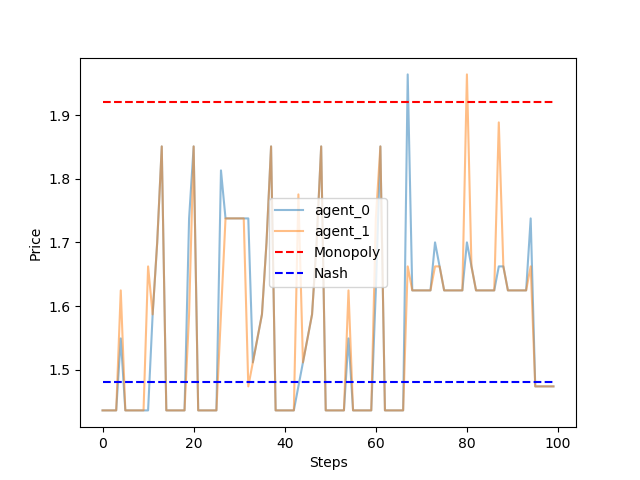
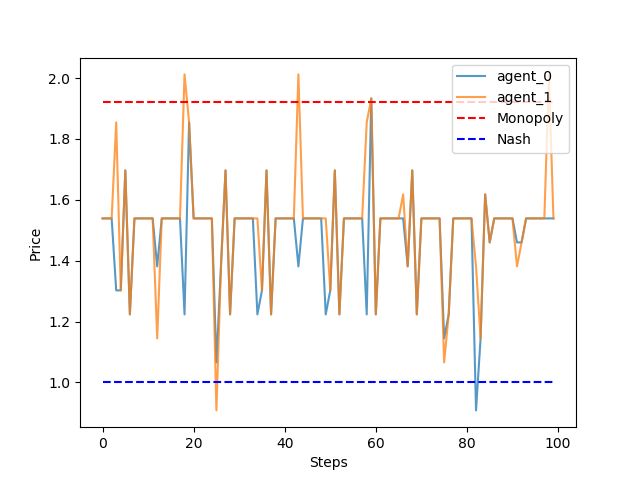
auto

diff --git a/gym_bertrandcompetition/envs/bertrand_competition_continuous.py b/gym_bertrandcompetition/envs/bertrand_competition_continuous.py
@@ -10,12 +10,12 @@ import matplotlib.pyplot as plt
 
 # cd OneDrive/Documents/Research/gym-bertrandcompetition/gym_bertrandcompetition/envs
 
-class BertrandCompetitionDiscreteEnv(MultiAgentEnv):
+class BertrandCompetitionContinuousEnv(MultiAgentEnv):
     metadata = {'render.modes': ['human']}
 
-    def __init__(self, num_agents = 2, c_i = 1, a_minus_c_i = 1, a_0 = 0, mu = 0.25, delta = 0.95, m = 15, xi = 0.1, k = 1, max_steps=200, epochs=10, convergence=5, trainer_choice='DQN'):
+    def __init__(self, num_agents = 2, c_i = 1, a_minus_c_i = 1, a_0 = 0, mu = 0.25, delta = 0.95, xi = 0.1, k = 1, max_steps=200, epochs=10, trainer_choice='DQN'):
 
-        super(BertrandCompetitionDiscreteEnv, self).__init__()
+        super(BertrandCompetitionContinuousEnv, self).__init__()
         self.num_agents = num_agents
 
         # Length of Memory
@@ -23,9 +23,6 @@ class BertrandCompetitionDiscreteEnv(MultiAgentEnv):
 
         # Marginal Cost
         self.c_i = c_i
-
-        # Number of Discrete Prices
-        self.m = m
 
         # Product Quality Indexes
         self.a = np.array([c_i + a_minus_c_i] * num_agents)
@@ -63,25 +60,24 @@ class BertrandCompetitionDiscreteEnv(MultiAgentEnv):
         print('Monopoly Price:', self.pM)
 
         # MultiAgentEnv Action Space
-        self.action_space = Discrete(m)
+        self.low_price = self.pN - xi * (self.pM - self.pN)
+        self.high_price = self.pM + xi * (self.pM - self.pN)
+        self.action_space = Box(np.array([self.low_price]), np.array([self.high_price]))
         
         # MultiAgentEnv Observation Space
         if k > 0:
-            self.numeric_low = np.array([0] * (k * num_agents))
-            numeric_high = np.array([m] * (k * num_agents))
-            self.observation_space = Box(self.numeric_low, numeric_high, dtype=int)
+            self.numeric_low = np.array([self.low_price] * (k * num_agents))
+            numeric_high = np.array([self.high_price] * (k * num_agents))
+            self.observation_space = Box(self.numeric_low, numeric_high)
         else:
-            self.numeric_low = np.array([0] * num_agents)
-            numeric_high = np.array([m] * num_agents)
-            self.observation_space = Box(self.numeric_low, numeric_high, dtype=int)
+            self.numeric_low = np.array([self.low_price] * num_agents)
+            numeric_high = np.array([self.high_price] * num_agents)
+            self.observation_space = Box(self.numeric_low, numeric_high)
 
-        self.action_price_space = np.linspace(self.pN - xi * (self.pM - self.pN), self.pM + xi * (self.pM - self.pN), m)
-        print(self.action_price_space)
         self.reward_range = (-float('inf'), float('inf'))
         self.current_step = None
         self.max_steps = max_steps
         self.epochs = epochs
-        self.convergence = convergence
         self.trainer_choice = trainer_choice
         self.players = [ 'agent_' + str(i) for i in range(num_agents)]
         self.action_history = {}
@@ -89,7 +85,7 @@ class BertrandCompetitionDiscreteEnv(MultiAgentEnv):
         for i in range(num_agents):
             if self.players[i] not in self.action_history:
                 self.action_history[self.players[i]] = []
-                for _ in range(convergence):
+                for _ in range(k):
                     self.action_history[self.players[i]].append(self.action_space.sample())
 
         self.reset()
@@ -102,10 +98,10 @@ class BertrandCompetitionDiscreteEnv(MultiAgentEnv):
     def step(self, actions_dict):
         ''' MultiAgentEnv Step'''
 
-        actions_idx = np.array(list(actions_dict.values())).flatten()
+        actions_list = np.array(list(actions_dict.values())).flatten()
 
-        for i in range(actions_idx.size):
-            self.action_history[self.players[i]].append(actions_idx[i])
+        for i in range(actions_list.size):
+            self.action_history[self.players[i]].append(actions_list[i])
 
         reward = np.array([0.0] * self.num_agents)
 
@@ -115,14 +111,13 @@ class BertrandCompetitionDiscreteEnv(MultiAgentEnv):
         else:
             observation = dict(zip(self.players, [self.numeric_low for _ in range(self.num_agents)]))
 
-        self.prices = self.action_price_space.take(actions_idx)
+        self.prices = actions_list
 
         for i in range(self.num_agents):
             reward[i] = (self.prices[i] - self.c_i) * self.demand(self.a, self.prices, self.mu, i)
 
         reward = dict(zip(self.players, reward))
-        done = {'__all__': np.all(np.array(self.action_history[self.players[0]][-self.convergence:]) == self.action_history[self.players[0]][-1])
-                                   or self.current_step == self.max_steps}
+        done = {'__all__': self.current_step == self.max_steps}
         info = dict(zip(self.players, [{}]*self.num_agents))
 
         self.current_step += 1
@@ -134,10 +129,10 @@ class BertrandCompetitionDiscreteEnv(MultiAgentEnv):
 
         if direction == 'down':
             # First player deviates to lowest price
-            deviate_actions_dict[self.players[0]] = 0
+            deviate_actions_dict[self.players[0]] = self.low_price
         elif direction == 'up':
             # First player deviates to highest price
-            deviate_actions_dict[self.players[0]] = self.m - 1
+            deviate_actions_dict[self.players[0]] = self.high_price
 
         for agent in range(1, self.num_agents):
             # All other player remain at previous price (large assumption)
@@ -151,7 +146,7 @@ class BertrandCompetitionDiscreteEnv(MultiAgentEnv):
         self.current_step = 0
 
         # Reset to random action
-        random_action = np.random.randint(self.m, size=self.num_agents)
+        random_action = np.random.uniform(self.low_price, self.high_price, size=self.num_agents)
 
         for i in range(random_action.size):
             self.action_history[self.players[i]].append(random_action[i])
@@ -181,26 +176,3 @@ class BertrandCompetitionDiscreteEnv(MultiAgentEnv):
 
     def render(self, mode='human'):
         raise NotImplementedError
-
-
-
-# Tests
-
-# bcd = BertrandCompetitionDiscreteEnv()
-# obs = bcd.reset()
-# print(obs)
-# print([0] * 0)
-
-# for i in range(14):
-#     print()
-#     obs, rewards, dones, infos = bcd.step(actions_dict={'agent_0': i, 'agent_1': i})
-#     print('Obs:', obs)
-#     print('Reward:', rewards)
-#     print('Done:', dones)
-#     print('Info:', infos)
-#     print()
-#     obs, rewards, dones, infos = bcd.step(actions_dict={'agent_0': i, 'agent_1': i+1})
-#     print('Obs:', obs)
-#     print('Reward:', rewards)
-#     print('Done:', dones)
-#     print('Info:', infos)

diff --git a/agents/q_learner.py b/agents/q_learner.py
@@ -83,7 +83,26 @@ class Q_Learner():
             for agent in range(self.num_agents):
                 all_rewards[agent].append(mean_reward)
 
-    def plot(self, last_n = 1000):
+    def eval(self, observation, n=20):
+        '''Eval q_table'''
+
+        for i in range(n):
+
+            observation = str(observation)
+
+            actions_dict = {}
+            for agent in range(self.num_agents):
+                if observation not in self.q_table[agent]:
+                    self.q_table[agent][observation] = [0] * self.m
+
+                actions_dict[self.players[agent]] = np.argmax(self.q_table[agent][observation])
+
+            next_observation, reward, done, info = self.env.step(actions_dict)
+            done = done['__all__']
+
+            observation = str(next_observation)
+
+    def plot(self, last_n = 1000, title_str=''):
         x = np.arange(last_n)
         for player in self.players:
             plt.plot(x, self.env.action_price_space.take(self.env.action_history[player][-last_n:]), alpha=0.75, label=player)
@@ -92,5 +111,5 @@ class Q_Learner():
         plt.xlabel('Steps')
         plt.ylabel('Price')
         plt.legend()
-        plt.savefig('./figures/' + self.env.trainer_choice + '_with_' + str(self.env.num_agents) + '_agents_k_' + str(self.env.k) + '_for_' + str(self.env.epochs * self.env.max_steps) + '_steps_last_steps_' + str(last_n))
+        plt.savefig('./figures/' + title_str + self.env.trainer_choice + '_with_' + str(self.env.num_agents) + '_agents_k_' + str(self.env.k) + '_for_' + str(self.env.epochs * self.env.max_steps) + '_steps_last_steps_' + str(last_n))
         plt.clf()

diff --git a/gym_bertrand_test.py b/gym_bertrand_test.py
@@ -1,6 +1,7 @@
 import gym
 import gym_bertrandcompetition
 from gym_bertrandcompetition.envs.bertrand_competition_discrete import BertrandCompetitionDiscreteEnv
+from gym_bertrandcompetition.envs.bertrand_competition_continuous import BertrandCompetitionContinuousEnv
 from agents.q_learner import Q_Learner
 
 import ray
@@ -22,13 +23,14 @@ from ray.tune.logger import pretty_print
 num_agents = 2
 k = 1
 m = 15
-max_steps = 500
+max_steps = 1000
 convergence = 5
 epochs = 50
 # choose from QL, DQN, PPO, A3C
-trainer_choice = 'QL'
+trainer_choice = 'A3C'
 
-env = BertrandCompetitionDiscreteEnv(num_agents=num_agents, k=k, m=m, max_steps=max_steps, epochs=epochs, convergence=convergence, trainer_choice=trainer_choice)
+# env = BertrandCompetitionDiscreteEnv(num_agents=num_agents, k=k, m=m, max_steps=max_steps, epochs=epochs, convergence=convergence, trainer_choice=trainer_choice)
+env = BertrandCompetitionContinuousEnv(num_agents=num_agents, k=k, max_steps=max_steps, epochs=epochs, trainer_choice=trainer_choice)
 
 config = {
     'env_config': {
@@ -76,5 +78,13 @@ else:
     q_learner.train()
     q_learner.plot(last_n=1000)
     q_learner.plot(last_n=100)
+
+    observation = env.deviate(direction='down')
+    q_learner.eval(observation, n=10)
+    q_learner.plot(last_n=20, title_str='down_deviation_')
+
+    observation = env.deviate(direction='up')
+    q_learner.eval(observation, n=10)
+    q_learner.plot(last_n=20, title_str='up_deviation_')
 
 env.plot()
